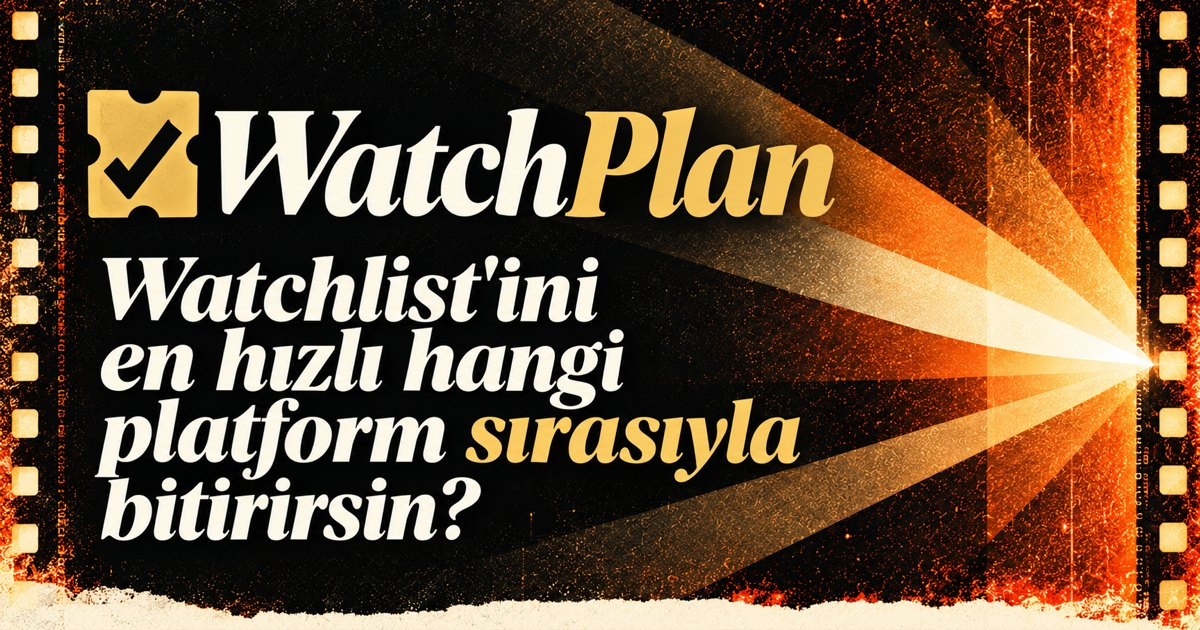
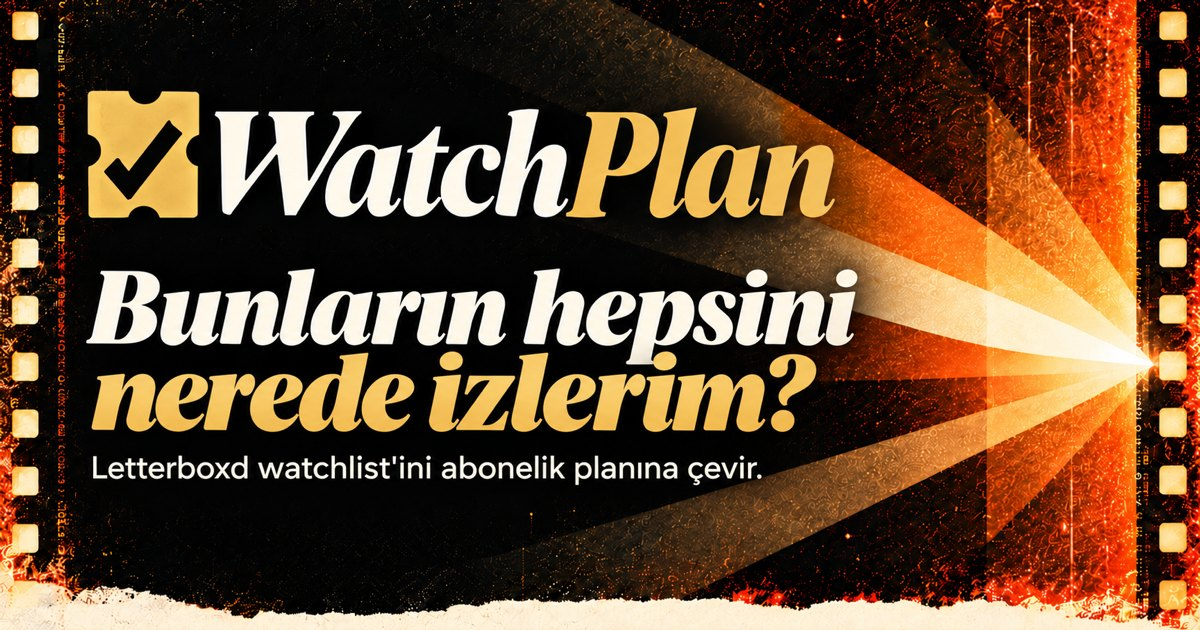
New share cards: English for GitHub, Turkish for the site
The site's card now asks "Bunların hepsini nerede izlerim?" and the
README shows the English "Where can I watch all this?" card. The og:image
URL gets a version query so link previews pick up the new image.

diff --git a/web/index.html b/web/index.html
@@ -20,14 +20,14 @@
 <meta property="og:title" content="WatchPlan – Letterboxd Watchlist'ine Göre Abonelik Sırası" />
 <meta property="og:description" content="Watchlist'ini en hızlı hangi platform sırasıyla bitirirsin? Letterboxd listeni yükle, abonelik sıranı gör." />
 <meta property="og:url" content="https://watchplan.onrender.com/" />
-<meta property="og:image" content="https://watchplan.onrender.com/assets/og-image.jpg" />
+<meta property="og:image" content="https://watchplan.onrender.com/assets/og-image.jpg?v=2" />
 <meta property="og:image:width" content="1200" />
 <meta property="og:image:height" content="630" />
-<meta property="og:image:alt" content="WatchPlan logosu ve “Watchlist'ini en hızlı hangi platform sırasıyla bitirirsin?” yazısı" />
+<meta property="og:image:alt" content="WatchPlan logosu ve “Bunların hepsini nerede izlerim?” yazısı" />
 <meta name="twitter:card" content="summary_large_image" />
 <meta name="twitter:title" content="WatchPlan – Letterboxd Watchlist'ine Göre Abonelik Sırası" />
 <meta name="twitter:description" content="Watchlist'ini en hızlı hangi platform sırasıyla bitirirsin? Letterboxd listeni yükle, abonelik sıranı gör." />
-<meta name="twitter:image" content="https://watchplan.onrender.com/assets/og-image.jpg" />
+<meta name="twitter:image" content="https://watchplan.onrender.com/assets/og-image.jpg?v=2" />
 <script type="application/ld+json">
 {
   "@context": "https://schema.org",
@@ -41,7 +41,7 @@
     "tr",
     "en"
   ],
-  "image": "https://watchplan.onrender.com/assets/og-image.jpg",
+  "image": "https://watchplan.onrender.com/assets/og-image.jpg?v=2",
   "offers": {
     "@type": "Offer",
     "price": "0",

diff --git a/README.md b/README.md
@@ -1,5 +1,5 @@
 <p align="center">
-  <img src="web/assets/og-image.jpg" alt="WatchPlan" width="760">
+  <img src="docs/og-image-en.jpg" alt="WatchPlan: Where can I watch all this?" width="760">
 </p>
 
 <p align="center">
